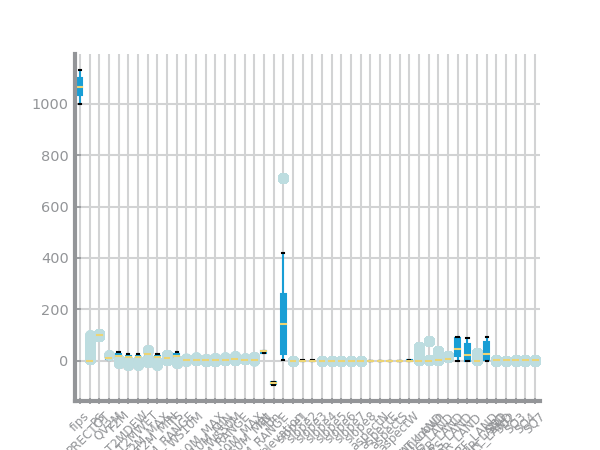
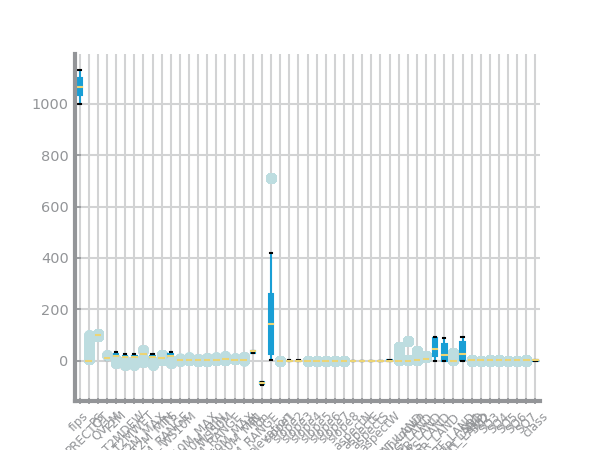
cenas

Changed region(s): [[0.09, 0.1244, 0.9, 1.0]]

diff --git a/droughtDataset/lab1/data_distribution.py b/droughtDataset/lab1/data_distribution.py
@@ -8,7 +8,7 @@ from ds_charts import bar_chart
 register_matplotlib_converters()
 
 # kaggleOGData = pd.read_csv('../kaggleDataset.csv')
-data = pd.read_csv('../drought.csv', na_values='-1')
+data = pd.read_csv('../Data/drought.csv', na_values='-1')
 data['date'] = pd.to_datetime(data['date'], format = '%d/%m/%Y')
 data.shape
 
@@ -63,7 +63,7 @@ show()
 from matplotlib.pyplot import savefig, show, subplots
 from ds_charts import get_variable_types, choose_grid, HEIGHT
 
-numeric_vars = get_variable_types(data)['Binary']
+numeric_vars = get_variable_types(data)['Numeric']
 if [] == numeric_vars:
     raise ValueError('There are no numeric variables.')
 rows, cols = choose_grid(len(numeric_vars))
@@ -73,7 +73,7 @@ for n in range(len(numeric_vars)):
     axs[i, j].set_title('Boxplot for %s'%numeric_vars[n])
     axs[i, j].boxplot(data[numeric_vars[n]].dropna().values)
     i, j = (i + 1, 0) if (n+1) % cols == 0 else (i, j + 1)
-savefig('images/single_boxplots_binary.png')
+savefig('images/single_boxplots.png')
 show()
 
 

diff --git a/droughtDataset/lab1/data_dimensionality.py b/droughtDataset/lab1/data_dimensionality.py
@@ -8,7 +8,7 @@ from ds_charts import bar_chart
 register_matplotlib_converters()
 
 # kaggleOGData = pd.read_csv('../kaggleDataset.csv')
-data = pd.read_csv('../Data/drought.csv', na_values='-1')
+data = pd.read_csv('../Data/drought.csv', na_values='?')
 data['date'] = pd.to_datetime(data['date'], format = '%d/%m/%Y')
 data.shape
 
@@ -86,7 +86,7 @@ show()
 
 
 #%% Correlation Analysis
-data = data[variable_types['Numeric']]
+data = data[variable_types['Numeric'] + ["class"]]
 corr_mtx = abs(data.corr())
 print(corr_mtx)
 
